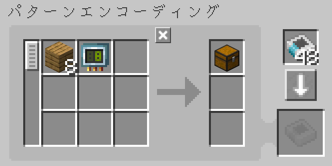
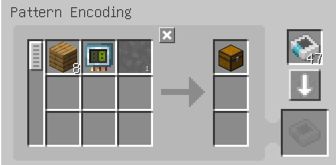
docs: default language

diff --git a/guidebook/pccard_intro/card_programmed_circuit_items.md b/guidebook/pccard_intro/card_programmed_circuit_items.md
@@ -1,7 +1,7 @@
 ---
 navigation:
-  parent: pccard_intro/index.md
-  title: プログラム回路カード
+  parent: index.md
+  title: Programmed Circuit Card
   icon: pccard:card_programmed_circuit
   position: 10
 categories:
@@ -10,24 +10,28 @@ item_ids:
   - pccard:card_programmed_circuit
 ---
 
-# プログラム回路カード
-このカードはパターンプロバイダーの機能を変更し、プログラム回路をGreg機械にプッシュする代わりに回路番号を変更します。
+# Programmed Circuit Card
 
-## パターン登録
+A Pattern Provider with this card inserted will change the circuit number instead of pushing a programmed circuit into GregTech machines.
 
-パターンにプログラム回路を含めてください。ネットワーク内にプログラム回路がなくても動作します。  
-いちいち手動で配置するのは面倒なので、JEIやEMIからレシピを登録するとプログラム回路も含まれるように動作が変更されています。  
-もしプログラム回路が配置されない、またはこの機能を無効化したい場合はコンフィグのjei_integrationを確認してください。  
-![パターン登録](../pic/encode_pattern.png)
+## Recipe
+<RecipeFor id="pccard:card_programmed_circuit" />
 
-## パターンプロバイダー
+## Pattern Registration
 
-パターンプロバイダーのアップグレードスロットにプログラム回路カードを配置します。  
-**パターンプロバイダーの設定を忘れずにブロッキングモードにしましょう。**  
-プログラム回路が含まれていないパターンは回路番号0として扱われることに注意してください。  
-![パターンプロバイダー](../pic/pattern_provider.png)
+Include the programmed circuit in the pattern. It will work even if there is no programmed circuit in the network.  
+Manually placing it every time is inconvenient, so the behavior has been modified to include the programmed circuit when registering recipes from JEI or EMI.  
+If the programmed circuit is not being placed, or if you want to disable this feature, check the `jei_integration` setting in the config.  
+![Pattern Registration](../pic/encode_pattern.png)
 
-## 注文
+## Pattern Provider
 
-通常のアイテムと同じように注文できます。クラフトプランにはプログラム回路は表示されません。  
-もし表示されていたら、パターンプロバイダーにプログラム回路カードがインストールされているか確認してください。
+Place the Programmed Circuit Card in the upgrade slot of the Pattern Provider.  
+**Don't forget to set the Pattern Provider to blocking mode.**  
+Note that patterns without a programmed circuit will be treated as circuit number 0.  
+![Pattern Provider](../pic/pattern_provider.png)
+
+## Crafting Order
+
+You can order it just like a normal item. The programmed circuit will not appear in the crafting plan.  
+If it does appear, check whether the Programmed Circuit Card is installed in the Pattern Provider.

diff --git a/guidebook/pccard_intro/tips.md b/guidebook/pccard_intro/tips.md
@@ -1,8 +1,8 @@
 ---
 navigation:
-  parent: pccard_intro/index.md
+  parent: index.md
   title: ヒント
-  icon: pccard:card_programmed_circuit
+  icon: minecraft:writable_book
   position: 20
 ---
 
@@ -12,23 +12,24 @@ navigation:
 サブネットワークを使うことでこれらのクラフトをうまく行えます。このmodはサブネットワーク先の機械の回路番号も変更します。  
 次の図を見てください。
 
-<GameScene zoom="6" background="transparent">
+<GameScene zoom="4" background="transparent" interactive={true}>
 <ImportStructure src="../structure/provider_interface_storage.snbt" />
 
-<BoxAnnotation color="#dddddd" min="2.7 0 1" max="3 1 2">
+<BoxAnnotation color="#dddddd" min="2.7 0 0" max="3 1 1">
         インターフェース
   </BoxAnnotation>
 
-<BoxAnnotation color="#dddddd" min="1 0 0" max="1.3 1 4">
+<BoxAnnotation color="#dddddd" min="1 0 0" max="1.3 2 1">
         ストレージバス
   </BoxAnnotation>
 
-<BoxAnnotation color="#dddddd" min="0 0 0" max="1 1 4">
+<BoxAnnotation color="#dddddd" min="0 0 0" max="1 2 1">
         バス・ハッチ
   </BoxAnnotation>
 
-<IsometricCamera yaw="185" pitch="30" />
+<IsometricCamera yaw="200" pitch="30" />
 </GameScene>
 
-全てのストレージバスの「アクセスできないアイテムの報告」を「はい」にしておきます。無効のままだとブロッキングモードがうまく働きません。  
+全てのストレージバスの「アクセスできないアイテムの報告」を「はい」にしておきます。  
+無効のままだとブロッキングモードがうまく働かないことがあります。  
 ![](../pic/storage_bus_setting.png)

diff --git a/guidebook/index.md b/guidebook/index.md
@@ -1,24 +1,22 @@
 ---
 navigation:
-  title: Programmed Circuit Card導入
+  title: Programmed Circuit Card Introduction
   position: 80
 ---
 
-![Logo](_ja_jp/pic/logo.png)
+![Logo](pic/logo.png)
 
-このmodは[GregTech](https://www.curseforge.com/minecraft/mc-mods/gregtechceu-modern)
-と[AE2](https://www.curseforge.com/minecraft/mc-mods/applied-energistics-2)のアドオンです。  
-[Neeve's AE2](https://www.curseforge.com/minecraft/mc-mods/nae2)のProgrammed Circuit Cardをポートします。
+This mod is an addon for [GregTech](https://www.curseforge.com/minecraft/mc-mods/gregtechceu-modern) and [AE2](https://www.curseforge.com/minecraft/mc-mods/applied-energistics-2).  
+It ports the Programmed Circuit Card from [Neeve's AE2](https://www.curseforge.com/minecraft/mc-mods/nae2).
 
-## アイテム
+## Items
 
-* [プログラム回路カード](pccard_intro/card_programmed_circuit_items.md)
+* [Programmed Circuit Card](pccard_intro/card_programmed_circuit_items.md)
 
 ## その他のページ
 
-* [ヒント](pccard_intro/tips.md)
-* [他modとの統合](pccard_intro/other_mod.md)
+* [Tips](pccard_intro/tips.md)
+* [Integration with Other Mods](pccard_intro/other_mod.md)
 
-バグや機能不足がありましたか？  
-報告してください:  
-[GitHub](https://github.com/yuuki1293/ProgrammedCircuitCard)
+Found any bugs or missing features?  
+Report them here: [GitHub](https://github.com/yuuki1293/ProgrammedCircuitCard) [Discord](https://discord.gg/qgKEFnf6v8)

diff --git a/guidebook/pccard_intro/other_mod.md b/guidebook/pccard_intro/other_mod.md
@@ -1,8 +1,8 @@
 ---
 navigation:
-  parent: pccard_intro/index.md
+  parent: index.md
   title: 他mod連携
-  icon: pccard:card_programmed_circuit
+  icon: expatternprovider:ex_pattern_provider
   position: 30
 ---
 
